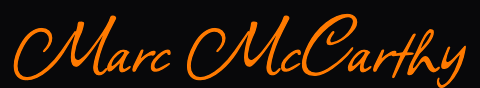
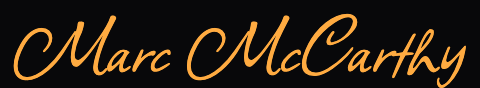
feat(web): return the signature name to amber

Changed region(s): [[0.0312, 0.1591, 0.9688, 1.0]]

diff --git a/app/web/scripts/signature/build-signature.ts b/app/web/scripts/signature/build-signature.ts
@@ -133,7 +133,7 @@ async function main(): Promise<void> {
   mkdirSync(OUT_HTML, { recursive: true })
   mkdirSync(OUT_ASSETS, { recursive: true })
 
-  await renderNames(people, font, requireToken(tokens, 'accent'), base)
+  await renderNames(people, font, requireToken(tokens, 'amber'), base)
   await Promise.all(people.map((person) => renderPhoto(person, base)))
   await renderIcon('linkedin', requireToken(tokens, 'muted'), base)
   await renderIcon('facebook', requireToken(tokens, 'muted'), base)
